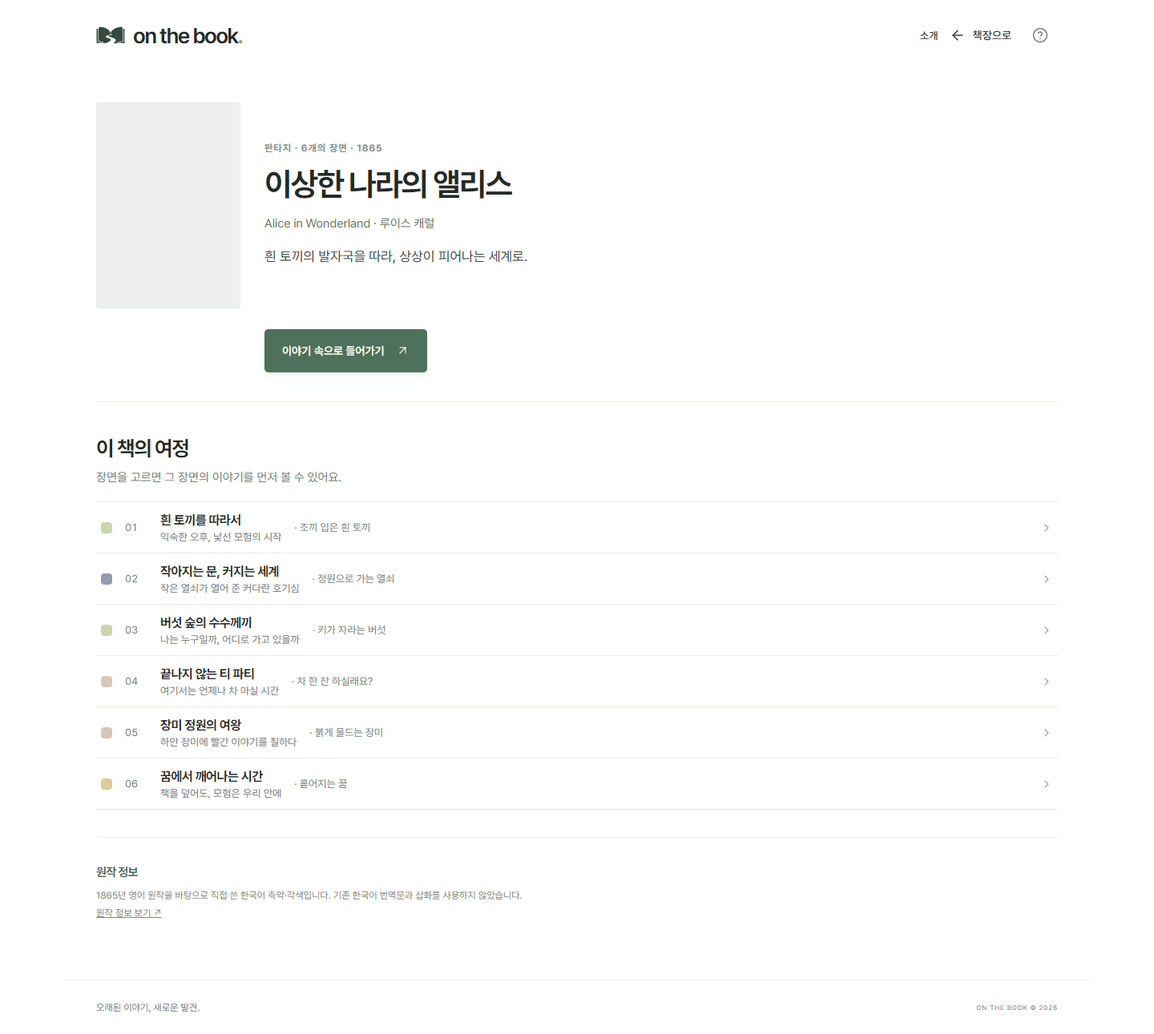
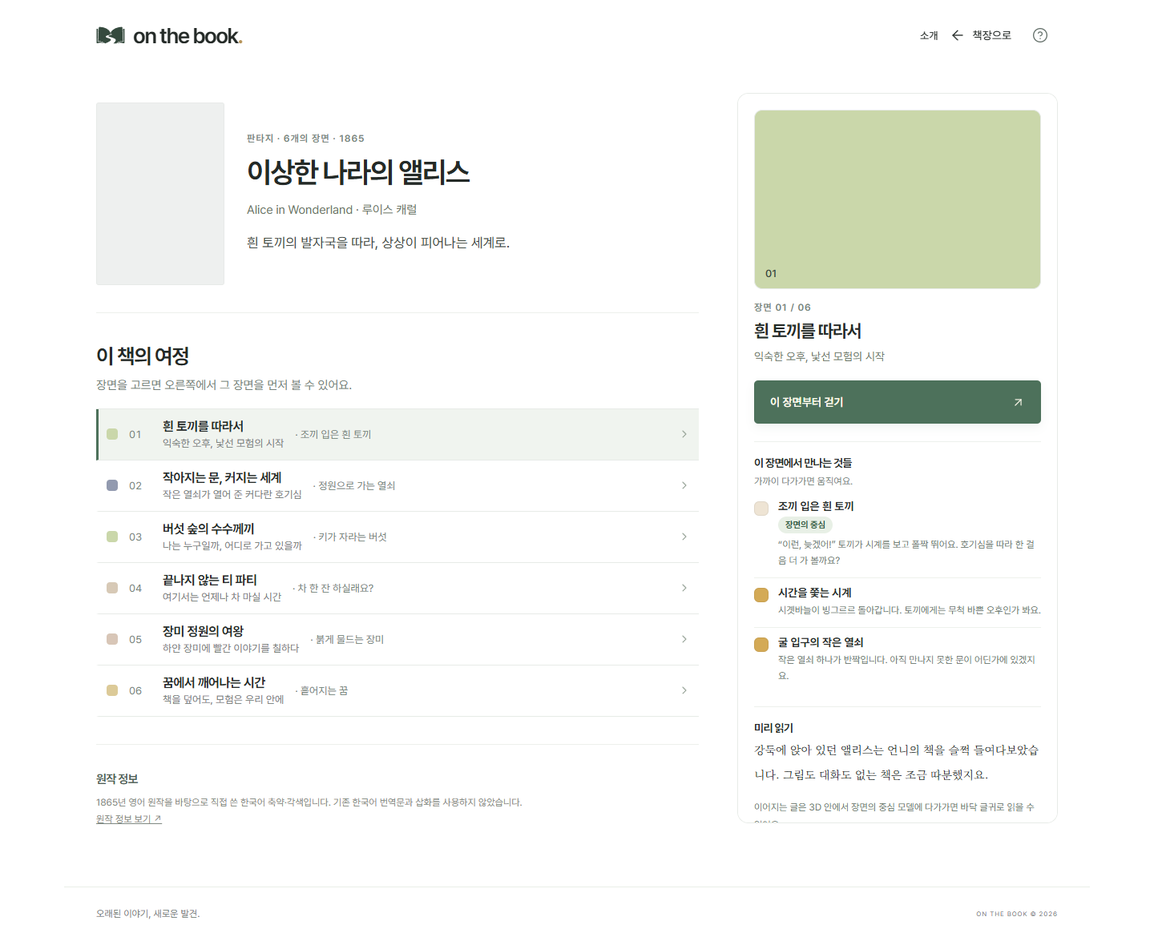
Document the two-column book detail
README, the studio guide and hint, and the migration spec describe the
scene panel, the phone sheet and the three reader addresses; the detail
spec names the panel ids the code uses. The preview capture takes a
server address and enters the world from the panel, and the four
screenshots show the new layout.

diff --git a/admin/main.js b/admin/main.js
@@ -396,7 +396,7 @@ function editChapter(id) {
   const c = book().chapters.find(c=>c.id===id) || chapter(),
     index = book().chapters.indexOf(c);
   const d = modal(
-    `<span class="eyebrow">CHAPTER ${index + 1}</span><h2>장면과 이야기</h2><form id="chapter-form">${field("챕터 제목", "title", c.title, "text", 'required maxlength="200"')}${field("짧은 소개", "subtitle", c.subtitle, "text", 'maxlength="250"')}${imageField("chapter-thumbnail", "장면 썸네일 (PNG)", "thumbnail", c.thumbnail,"사용자 화면의 장면 목록에 16:10 비율로 보여요(예: 1280×800). 없으면 빈 자리로 둡니다.")}${select("장면 분위기", "theme", themes, c.theme)}${field("공간 가로 크기", "width", c.width || 64, "number", 'min="40" max="120" required')}${field("공간 세로 크기", "depth", c.depth || 56, "number", 'min="40" max="100" required')}<p class="field-hint">이 공간이 챕터 순서대로 연결됩니다. 모델은 공간 안 어디든 배치할 수 있고, 이동 조건은 없습니다.</p><a href="${esc(clientUrl)}?book=${book().id}&chapter=${c.id}" target="_blank" rel="noopener">공개된 탐험 화면 보기 ↗</a><div class="field-section">바닥 안내와 독서 화면</div><p class="field-hint">바닥 이미지는 왼쪽 목록에서 월드에 배치하고, 선택해 위치와 방향을 수정합니다.</p><label class="checkbox-field"><input type="checkbox" name="floorEnabled" ${c.floorEnabled !== false ? "checked" : ""}> 모델 접근 시 글 섹션과 카메라 연출</label><label class="field">오른쪽에 보여 줄 글귀<textarea name="floorText" rows="4" maxlength="15000" placeholder="비우면 아래 이야기 본문 전체를 사용합니다.">${esc(c.floorText || "")}</textarea></label>${field("글귀 카메라 여백 배율", "floorZoom", c.floorZoom ?? 1.1, "number", 'min="1" max="1.8" step="0.1"')}${field("애니메이션·글 노출 접근 배율", "reactionMultiplier", c.reactionMultiplier ?? 2, "number", 'min="1" max="4" step="0.1"')}${field("페이지당 최대 글자 수", "floorPageSize", c.floorPageSize ?? 112, "number", 'min="40" max="400" step="1"')}<label class="checkbox-field"><input name="floorStagger" type="checkbox" ${c.floorStagger !== false ? "checked" : ""}> 챕터명과 본문 순차 등장</label><p class="field-hint">글귀는 화면 오른쪽의 반투명 창에, 캐릭터와 모델은 왼쪽에 표시됩니다. 긴 글은 여러 장으로 나뉩니다. 여백 배율이 클수록 카메라가 멀어지며, 화면 크기에 맞춰 글귀가 보이도록 조절됩니다.</p><label class="field">이야기 본문<textarea name="body" rows="9" maxlength="15000">${esc(c.body)}</textarea></label><div class="modal-actions"><button type="button" id="chapter-up" class="outline-button" ${index === 0 ? "disabled" : ""}>앞으로 옮기기</button><button type="button" id="chapter-down" class="outline-button" ${index === book().chapters.length - 1 ? "disabled" : ""}>뒤로 옮기기</button><button type="button" id="delete-chapter" class="text-button danger" ${book().chapters.length === 1 ? "disabled" : ""}>삭제</button><button class="primary-button">변경 적용</button></div></form>`,
+    `<span class="eyebrow">CHAPTER ${index + 1}</span><h2>장면과 이야기</h2><form id="chapter-form">${field("챕터 제목", "title", c.title, "text", 'required maxlength="200"')}${field("짧은 소개", "subtitle", c.subtitle, "text", 'maxlength="250"')}${imageField("chapter-thumbnail", "장면 썸네일 (PNG)", "thumbnail", c.thumbnail,"사용자 화면의 장면 목록과 작품 상세의 장면 패널에 16:10 비율로 보여요(예: 1280×800). 없으면 빈 자리로 둡니다.")}${select("장면 분위기", "theme", themes, c.theme)}${field("공간 가로 크기", "width", c.width || 64, "number", 'min="40" max="120" required')}${field("공간 세로 크기", "depth", c.depth || 56, "number", 'min="40" max="100" required')}<p class="field-hint">이 공간이 챕터 순서대로 연결됩니다. 모델은 공간 안 어디든 배치할 수 있고, 이동 조건은 없습니다.</p><a href="${esc(clientUrl)}?book=${book().id}&chapter=${c.id}" target="_blank" rel="noopener">공개된 탐험 화면 보기 ↗</a><div class="field-section">바닥 안내와 독서 화면</div><p class="field-hint">바닥 이미지는 왼쪽 목록에서 월드에 배치하고, 선택해 위치와 방향을 수정합니다.</p><label class="checkbox-field"><input type="checkbox" name="floorEnabled" ${c.floorEnabled !== false ? "checked" : ""}> 모델 접근 시 글 섹션과 카메라 연출</label><label class="field">오른쪽에 보여 줄 글귀<textarea name="floorText" rows="4" maxlength="15000" placeholder="비우면 아래 이야기 본문 전체를 사용합니다.">${esc(c.floorText || "")}</textarea></label>${field("글귀 카메라 여백 배율", "floorZoom", c.floorZoom ?? 1.1, "number", 'min="1" max="1.8" step="0.1"')}${field("애니메이션·글 노출 접근 배율", "reactionMultiplier", c.reactionMultiplier ?? 2, "number", 'min="1" max="4" step="0.1"')}${field("페이지당 최대 글자 수", "floorPageSize", c.floorPageSize ?? 112, "number", 'min="40" max="400" step="1"')}<label class="checkbox-field"><input name="floorStagger" type="checkbox" ${c.floorStagger !== false ? "checked" : ""}> 챕터명과 본문 순차 등장</label><p class="field-hint">글귀는 화면 오른쪽의 반투명 창에, 캐릭터와 모델은 왼쪽에 표시됩니다. 긴 글은 여러 장으로 나뉩니다. 여백 배율이 클수록 카메라가 멀어지며, 화면 크기에 맞춰 글귀가 보이도록 조절됩니다.</p><label class="field">이야기 본문<textarea name="body" rows="9" maxlength="15000">${esc(c.body)}</textarea></label><div class="modal-actions"><button type="button" id="chapter-up" class="outline-button" ${index === 0 ? "disabled" : ""}>앞으로 옮기기</button><button type="button" id="chapter-down" class="outline-button" ${index === book().chapters.length - 1 ? "disabled" : ""}>뒤로 옮기기</button><button type="button" id="delete-chapter" class="text-button danger" ${book().chapters.length === 1 ? "disabled" : ""}>삭제</button><button class="primary-button">변경 적용</button></div></form>`,
   );
   const apply = () => {
     const values = Object.fromEntries(new FormData(d.querySelector("form")));

diff --git a/docs/superpowers/specs/2026-09-28-detail-pages-design.md b/docs/superpowers/specs/2026-09-28-detail-pages-design.md
@@ -95,7 +95,7 @@ main.detail-page.store-content#main-content[data-view="book"]
     section.detail-hero           표지·분류·제목·저자·소개
     section.detail-section#detail-journey   이 책의 여정(장면 목록)
     section.detail-source         원작 정보
-  aside.scene-panel[aria-labelledby="scene-panel-title"]   오른쪽 열. sticky
+  aside.scene-panel[aria-labelledby="panel-scene-title"]   오른쪽 열. sticky
     (7절의 패널 내용)
   div.detail-cta                  850px 이하에서만 보이는 하단 고정 바
   p.reader-sr-only[role="status"]#scene-status   장면 선택 안내
@@ -132,10 +132,10 @@ main.detail-page.store-content#main-content[data-view="book"]
 
 순서와 내용
 1. 이미지 `.scene-image.image-placeholder[data-theme]`: 패널 폭 전체, **항상 16:10**(`aspect-ratio: 16 / 10`), 모서리 10px, 배경은 테마 칩 색, 왼쪽 아래 `.scene-number` "02". 썸네일(`chapter.thumbnail`)이 있으면 `.has-image` 를 더하고 `<img>`(`alt=""`, `object-fit: cover`)가 자리를 채우며 번호는 밝은 알약 모양으로 위에 남는다. 이름표는 썸네일이 있으면 `aria-label="{장면 제목} 장면 이미지"`, 없으면 `"장면 이미지 준비 중"`. 패널이 좁아(340~400px) 16:10 이미지가 그대로 들어가므로 예전의 가로 띠와 잘림 문제가 없다.
-2. `.eyebrow` "`장면 02 / 06`", `h2#scene-panel-title` 장면 제목, `p.detail-meta` 부제(비어 있으면 생략). 저장된 장면이면 제목 아래에 배지 "마지막에 머문 장면".
+2. `.eyebrow` "`장면 02 / 06`", `h2#panel-scene-title` 장면 제목, `p.detail-meta` 부제(비어 있으면 생략). 저장된 장면이면 제목 아래에 배지 "마지막에 머문 장면".
 3. CTA: `<button class="primary-button detail-enter" data-enter="alice" data-enter-chapter="alice-2">이 장면부터 걷기 ↗</button>`, 패널 폭 전체. 저장된 장면과 같아도 문구는 바꾸지 않는다. 어느 장면이든 들어가면 그 장면이 저장된 장면이 된다(기존 규칙).
-4. 이 장면에서 만나는 것들 `#detail-figures`: `h3` "이 장면에서 만나는 것들", 설명 "가까이 다가가면 움직여요.", `<ul class="figure-list">` 한 열. 배치는 대표 배치(`mainPlacementId`)가 먼저, 나머지는 원래 순서. 각 `li`: 색 칩 `.figure-chip`(모델 `color`, 없으면 `--accent`), `strong` 제목, `span.figure-story` 이야기(비어 있으면 생략), 대표 배치에만 배지 "장면의 중심". 배치가 없으면 이 묶음을 만들지 않는다.
-5. 미리 읽기 `#detail-preview`: `h3` "미리 읽기", `chapter.body` 를 `\n\n` 으로 나눈 첫 문단만 `.reading-text p`. 문단이 둘 이상이고 `chapter.floorEnabled !== false` 이면 `p.muted` "이어지는 글은 3D 안에서 장면의 중심 모델에 다가가면 바닥 글귀로 읽을 수 있어요.". 본문이 비어 있으면 이 묶음을 만들지 않는다. `floorText` 는 쓰지 않는다.
+4. 이 장면에서 만나는 것들 `#panel-figures`: `h3` "이 장면에서 만나는 것들", 설명 "가까이 다가가면 움직여요.", `<ul class="figure-list">` 한 열. 배치는 대표 배치(`mainPlacementId`)가 먼저, 나머지는 원래 순서. 각 `li`: 색 칩 `.figure-chip`(모델 `color`, 없으면 `--accent`), `strong` 제목, `span.figure-story` 이야기(비어 있으면 생략), 대표 배치에만 배지 "장면의 중심". 배치가 없으면 이 묶음을 만들지 않는다.
+5. 미리 읽기 `#panel-preview`: `h3` "미리 읽기", `chapter.body` 를 `\n\n` 으로 나눈 첫 문단만 `.reading-text p`. 문단이 둘 이상이고 `chapter.floorEnabled !== false` 이면 `p.muted` "이어지는 글은 3D 안에서 장면의 중심 모델에 다가가면 바닥 글귀로 읽을 수 있어요.". 본문이 비어 있으면 이 묶음을 만들지 않는다. `floorText` 는 쓰지 않는다.
 6. 이어지는 장면 `nav.neighbor-nav[aria-label="이어지는 장면"]`: 왼쪽 "← 01 흰 토끼를 따라서", 오른쪽 "03 버섯 숲의 수수께끼 →". 링크는 `a.neighbor-link[href={detailUrl scene}][data-scene]` 이고 여정 행과 같은 규칙으로 선택을 바꾼다. 첫 장면은 이전을, 마지막 장면은 다음을 만들지 않는다. "작품 전체 보기"와 브레드크럼은 없다. 작품이 바로 왼쪽에 있기 때문이다.
 
 패널의 제목 위계: 페이지의 `h1` 은 책 제목 하나이고 패널 제목은 `h2`, 패널 안 묶음은 `h3` 이다. 여정과 원작 정보의 `h2` 와 나란하다.
@@ -220,7 +220,7 @@ admin/
 
 - 전환 후 초점은 `h1#detail-title`. 장면 선택 뒤 초점은 누른 요소에 남고 `#scene-status`(`role="status"`, 시각적으로 숨김)가 선택을 알린다.
 - 선택된 여정 행은 `aria-current="true"`. 여정 목록은 `ol`, 행 글자는 한 링크라 스크린 리더가 한 덩어리로 읽는다. 칩과 아이콘은 `aria-hidden`.
-- 패널은 `aside[aria-labelledby="scene-panel-title"]`, 이어지는 장면은 `nav[aria-label]`. 이미지 자리는 `role="img"` 와 `aria-label`.
+- 패널은 `aside[aria-labelledby="panel-scene-title"]`, 이어지는 장면은 `nav[aria-label]`. 이미지 자리는 `role="img"` 와 `aria-label`.
 - 장면 시트는 `dialog.showModal()` 이라 초점이 안에 갇히고 Esc 로 닫힌다. 닫으면 초점이 누른 행으로 돌아간다.
 - 하단 바는 `env(safe-area-inset-bottom)` 을 더하고, 페이지 끝에 바 높이만큼 여백을 두어 원작 정보가 가려지지 않게 한다.
 - 새 애니메이션은 없다. 등장 순서는 `transitions.js` 가 `prefers-reduced-motion` 을 처리한다. 시트가 올라오는 움직임도 `prefers-reduced-motion: reduce` 에서는 즉시 나타난다.
@@ -233,21 +233,21 @@ admin/
 
 - `detailUrl`(기존 검사 유지).
 - `bookDetail`: 저장 없음이면 여정 1행이 `aria-current="true"` 이고 패널 제목이 1장면, CTA `data-enter-chapter="alice-1"`. 저장(`alice-2`)이면 2행이 선택·배지, 패널이 2장면, 패널 제목 아래 배지. `chapter` 인자로 3장면을 넘기면 3행 선택·패널 3장면(주소로 연 경우). 히어로에 버튼이 없다(`data-enter` 는 패널과 하단 바에만, 합계 2개). 여정 행 `href` 가 `detailUrl` 과 같다. 표지가 있으면 `.detail-cover img` 하나, 없으면 "표지 이미지 준비 중". 제목에 `<` 가 든 가짜 책으로 이스케이프 확인.
-- `scenePanel`: 16:10 이미지 자리와 번호, 썸네일이 있으면 `has-image`·`<img>`·`aria-label="{제목} 장면 이미지"`(`"`·`<` 가 든 제목의 이스케이프 포함), 없으면 "장면 이미지 준비 중". `h2#scene-panel-title`. CTA 하나. 대표 배치가 먼저이고 "장면의 중심" 배지가 하나, 배치 없으면 묶음 없음. 첫 문단만, `floorEnabled: false` 면 안내 없음, 본문 없으면 묶음 없음. 첫 장면은 이전이, 마지막 장면은 다음이 없다. 저장된 장면이면 배지. 없는 챕터는 예외.
+- `scenePanel`: 16:10 이미지 자리와 번호, 썸네일이 있으면 `has-image`·`<img>`·`aria-label="{제목} 장면 이미지"`(`"`·`<` 가 든 제목의 이스케이프 포함), 없으면 "장면 이미지 준비 중". `h2#panel-scene-title`. CTA 하나. 대표 배치가 먼저이고 "장면의 중심" 배지가 하나, 배치 없으면 묶음 없음. 첫 문단만, `floorEnabled: false` 면 안내 없음, 본문 없으면 묶음 없음. 첫 장면은 이전이, 마지막 장면은 다음이 없다. 저장된 장면이면 배지. 없는 챕터는 예외.
 - `sceneBar`: `02 · 작아지는 문, 커지는 세계` 와 `data-enter-chapter="alice-2"`.
 - 모든 링크가 `preview: true` 에서 `&preview=draft` 를 유지한다.
 
 ### 14.2 브라우저 검사 `tests/catalog.mjs`(4336 포트)
 
-1. 검색·분류·정렬 단계(기존) 뒤: `[data-book="alice"]` 클릭 → `.detail-page[data-view="book"]`, `#detail-title` "이상한 나라의 앨리스", 초점 `#detail-title`, 주소 `?book=alice`, `.journey-row` 6개 중 `[aria-current="true"]` 가 `alice-1`, `.scene-panel #scene-panel-title` "흰 토끼를 따라서", 상세 안 `img` 0개(시드). 여정 2행 클릭 → 커튼 없음(`.reader-curtain` 0), 주소 `?book=alice&scene=alice-2`, `history.length` 변화 없음(클릭 전후 `page.evaluate(() => history.length)` 비교), 패널 제목 "작아지는 문, 커지는 세계", `aria-current` 가 2행으로, `#scene-status` 에 "02". 패널 "03 …" 다음 링크 클릭 → 3장면, 주소 `scene=alice-3`. 여정 1행 클릭 → 1장면, 주소 `scene=alice-1`. 패널 CTA 클릭 → `#world canvas`, 주소 `book=alice&chapter=alice-1`. 이어서 기존 "작품 소개" 모달 검사와 3D 안 이동·다음 챕터(02) 검사가 그대로 이어진다.
+1. 검색·분류·정렬 단계(기존) 뒤: `[data-book="alice"]` 클릭 → `.detail-page[data-view="book"]`, `#detail-title` "이상한 나라의 앨리스", 초점 `#detail-title`, 주소 `?book=alice`, `.journey-row` 6개 중 `[aria-current="true"]` 가 `alice-1`, `.scene-panel #panel-scene-title` "흰 토끼를 따라서", 상세 안 `img` 0개(시드). 여정 2행 클릭 → 커튼 없음(`.reader-curtain` 0), 주소 `?book=alice&scene=alice-2`, `history.length` 변화 없음(클릭 전후 `page.evaluate(() => history.length)` 비교), 패널 제목 "작아지는 문, 커지는 세계", `aria-current` 가 2행으로, `#scene-status` 에 "02". 패널 "03 …" 다음 링크 클릭 → 3장면, 주소 `scene=alice-3`. 여정 1행 클릭 → 1장면, 주소 `scene=alice-1`. 패널 CTA 클릭 → `#world canvas`, 주소 `book=alice&chapter=alice-1`. 이어서 기존 "작품 소개" 모달 검사와 3D 안 이동·다음 챕터(02) 검사가 그대로 이어진다.
 2. 3D 안 이동·챕터 이동(기존). "책장으로" → `.catalog-card` 2개(기존).
 3. "읽던 작품 이어 보기" → `[data-book="alice"]` 클릭 → 저장된 2장면 행이 선택·배지, 패널 제목 "작아지는 문, 커지는 세계"와 배지 "마지막에 머문 장면", 주소는 `?book=alice`(기본 선택이라 `scene` 없음). CTA 클릭 → `#map-button` 에 "02". `reload` 뒤에도 "02".
 4. `goBack()` → 작품 상세(선택 유지, 주소에 `scene`), 한 번 더 → `.library-page`, `goForward()` 두 번 → 월드.
-5. 홈에서 `[data-scene-chapter="alice-3"]` 클릭 → `.detail-page[data-view="book"]`, 주소 `?book=alice&scene=alice-3`, 3행 선택, 패널 제목 "버섯 숲의 수수께끼", `#detail-preview .reading-text p` 한 문단, `.figure-list li` 3개, 첫 항목 "장면의 중심", 이전 "02", 다음 "04". CTA → 월드 `chapter=alice-3`.
+5. 홈에서 `[data-scene-chapter="alice-3"]` 클릭 → `.detail-page[data-view="book"]`, 주소 `?book=alice&scene=alice-3`, 3행 선택, 패널 제목 "버섯 숲의 수수께끼", `#panel-preview .reading-text p` 한 문단, `.figure-list li` 3개, 첫 항목 "장면의 중심", 이전 "02", 다음 "04". CTA → 월드 `chapter=alice-3`.
 6. 홈에서 `.feature-card.is-active`(앨리스) 클릭 → 작품 상세. "책장으로" → `.feature-card.is-active` 에 초점, 5.6초 뒤에도 유지(기존).
 7. 주소 직접 열기(기존 7단계에 더해): `?book=alice&scene=alice-2` 는 2행 선택과 패널 2장면, 문서 제목은 책 제목. 나머지(`?book=nope`, `?scene=alice-2`, `?book=alice&chapter=nope`, `?book=alice&scene=nope&preview=draft`, 초안 미리보기의 빈 책장)는 기존 단정 유지.
 8. 홈 화면 관리 묶음("Studio covers…" 단계, 가로챈 응답): `[data-book="alice"]` → `.detail-cover img` 1개; 썸네일이 있는 장면 카드 → 패널 `.scene-panel .scene-image.has-image img` 1개, 그 자리의 폭/높이 비 1.6(±0.02).
-9. 휴대폰 반복(320·390·768): 카드 탭 → 상세, `aside.scene-panel` 은 보이지 않고 `.detail-cta` 가 화면 아래에 있으며 폭 전체(`left 0`, `right = innerWidth`). 여정 2행 탭 → `dialog.scene-sheet[open]` 안에 `#scene-panel-title` "작아지는 문, 커지는 세계", 하단 바 문구 "02 ·". 시트 안 CTA 탭 → `#world canvas`, 주소 `chapter=alice-2`. 768px 도 한 열이므로 같은 흐름이다.
+9. 휴대폰 반복(320·390·768): 카드 탭 → 상세, `aside.scene-panel` 은 보이지 않고 `.detail-cta` 가 화면 아래에 있으며 폭 전체(`left 0`, `right = innerWidth`). 여정 2행 탭 → `dialog.scene-sheet[open]` 안에 `#panel-scene-title` "작아지는 문, 커지는 세계", 하단 바 문구 "02 ·". 시트 안 CTA 탭 → `#world canvas`, 주소 `chapter=alice-2`. 768px 도 한 열이므로 같은 흐름이다.
 
 ### 14.3 `tests/mobile-entry.mjs`(4321 포트)
 
@@ -255,7 +255,7 @@ admin/
 
 ### 14.4 `tests/home-admin.mjs`, `tests/capture.mjs`
 
-`home-admin.mjs` 는 홈 카드 선택자(`[data-book]`)만 쓰므로 그대로 통과해야 한다. `capture.mjs` 는 `[data-book="alice"]` 클릭 뒤 `.detail-page` 를 `docs/preview/detail.png` 로 찍고(마우스는 `(0, 0)` 으로 옮긴 뒤), 패널 CTA `.scene-panel .primary-button` 을 눌러 `explore.png` 를 찍는다.
+`home-admin.mjs` 는 홈 카드 선택자(`[data-book]`)만 쓰므로 그대로 통과해야 한다. `capture.mjs` 는 `[data-book="alice"]` 클릭 뒤 `.detail-page` 를 `docs/preview/detail.png` 로 찍고(마우스는 `(0, 0)` 으로 옮긴 뒤), 패널 CTA `.scene-panel .detail-enter` 을 눌러 `explore.png` 를 찍는다.
 
 ### 14.5 회귀
 

diff --git a/README.md b/README.md
@@ -26,12 +26,12 @@ npm start
 
 ## 현재 경험과 관리 기능
 
-- 첫 화면은 상단 검색, 발견·전체 도서·이어 읽기 메뉴, 추천 배너, 도서 책장과 장면별 탐색으로 구성됩니다. [리디 만화](https://ridibooks.com/comics/ebook)의 검색·카테고리·여러 도서 코너와 [밀리의서재](https://www.millie.co.kr/)의 탐색 메뉴를 참고했습니다. 제목·작가 검색, 분류, 제목·출간연도 정렬을 지원하며 도서를 누르면 작품 상세 페이지가 열리고, 그곳의 '이야기 속으로 들어가기' 버튼으로 3D 공간에 들어갑니다. 읽던 작품은 마지막에 머문 장면에서 이어 읽을 수 있습니다. 회원가입·로그인·알림 메뉴는 없습니다.
+- 첫 화면은 상단 검색, 발견·전체 도서·이어 읽기 메뉴, 추천 배너, 도서 책장과 장면별 탐색으로 구성됩니다. [리디 만화](https://ridibooks.com/comics/ebook)의 검색·카테고리·여러 도서 코너와 [밀리의서재](https://www.millie.co.kr/)의 탐색 메뉴를 참고했습니다. 제목·작가 검색, 분류, 제목·출간연도 정렬을 지원하며 도서를 누르면 작품 상세 페이지가 열리고, 오른쪽 장면 패널의 '이 장면부터 걷기' 버튼으로 3D 공간에 들어갑니다. 읽던 작품은 마지막에 머문 장면에서 이어 읽을 수 있습니다. 회원가입·로그인·알림 메뉴는 없습니다.
 - 기존 등록 도서만 표시하며 데모용 작품을 추가하지 않습니다. 공개 도서가 늘어나면 목록과 도서 수가 자동으로 확장됩니다. 발견 화면의 빈 도서 자리는 ‘새로운 이야기 준비 중’으로 표시되고 선택할 수 없습니다. 분류는 관리자 도서 정보에서 정하며, 분류가 없는 예전 데이터는 앨리스 ‘판타지’, 오즈 ‘모험’, 그 밖의 책 ‘문학’으로 표시됩니다.
-- 관리자가 올린 표지는 책장과 작품 상세·작품 소개 창에, 장면 썸네일은 장면 목록과 장면 상세에 표시됩니다. 등록하지 않은 칸은 크기와 자리만 확보한 빈 칸으로 둡니다.
+- 관리자가 올린 표지는 책장과 작품 상세·작품 소개 창에, 장면 썸네일은 장면 목록과 작품 상세의 장면 패널에 표시됩니다. 등록하지 않은 칸은 크기와 자리만 확보한 빈 칸으로 둡니다.
 - 추천 배너(히어로)는 관리자 **홈 화면** 탭의 슬라이드 순서를 따릅니다. 사진이 있는 슬라이드는 사진이 카드 전체를 채우고 글이 그 위에 놓이며, 사진이 없으면 기본 그림으로 표시합니다. 슬라이드가 없거나 연결된 책이 모두 비공개이면 도서 보관함 순서의 앞 두 권을 보여 줍니다. 슬라이드를 누르면 연결된 책의 작품 상세를 엽니다.
-- 장면 목록은 가로로 넘겨 볼 수 있고, 장면을 누르면 첫 문단과 그 장면의 모델을 미리 보여 주는 장면 상세 페이지가 열립니다. '이 장면부터 걷기' 버튼으로 그 장면의 3D 공간에 들어갑니다. 이전·다음 버튼, 터치 스크롤, 목록에 초점을 둔 상태에서 방향키·Home·End를 지원합니다.
-- 작품 상세 페이지에서 원작 정보와 장면 목록을 확인하고, 3D 공간 안에서는 **작품 소개** 창으로 같은 정보를 봅니다. 주소 `?book=<책>`은 작품 상세, `?book=<책>&scene=<장면>`은 장면 상세, `?book=<책>&chapter=<장면>`은 3D 공간입니다. **책장으로** 돌아오면 검색 조건과 위치가 유지되고 **이어 읽기**에서는 이 브라우저에서 방문한 작품을 볼 수 있습니다. 첫 진입 시 안내창은 자동으로 열리지 않으며 이용 방법 버튼으로 볼 수 있습니다.
+- 장면 목록은 가로로 넘겨 볼 수 있고, 장면을 누르면 그 장면이 선택된 작품 상세가 열리고, 장면 패널이 첫 문단과 그 장면의 모델을 미리 보여 줍니다. '이 장면부터 걷기' 버튼으로 그 장면의 3D 공간에 들어갑니다. 이전·다음 버튼, 터치 스크롤, 목록에 초점을 둔 상태에서 방향키·Home·End를 지원합니다.
+- 작품 상세 페이지에서 원작 정보와 장면 목록을 확인하고 오른쪽 패널(휴대폰에서는 아래에서 올라오는 시트)에서 장면을 고른 뒤 '이 장면부터 걷기'로 3D 공간에 들어가며, 3D 공간 안에서는 **작품 소개** 창으로 같은 정보를 봅니다. 주소 `?book=<책>`은 작품 상세, `?book=<책>&scene=<장면>`은 그 장면이 선택된 작품 상세, `?book=<책>&chapter=<장면>`은 3D 공간입니다. **책장으로** 돌아오면 검색 조건과 위치가 유지되고 **이어 읽기**에서는 이 브라우저에서 방문한 작품을 볼 수 있습니다. 첫 진입 시 안내창은 자동으로 열리지 않으며 이용 방법 버튼으로 볼 수 있습니다.
 - 트레일러는 아래쪽 **온더북 미리보기**에서 직접 열어 재생합니다. 미리보기 이미지는 표시하지 않으며 영상을 닫으면 재생을 멈춥니다.
 - 영상 원본은 `public/trailer.mp4`, 실제 웹 재생본은 `public/trailer-web.mp4`, 재생 전 이미지는 `public/trailer-poster.jpg`입니다. 원본을 교체하면 웹 재생본과 이미지도 함께 갱신해야 합니다.
 - 게임 요소 없이 넓은 공간을 자유롭게 이동합니다. 모델에 접근하면 애니메이션이 반복되고, 범위를 벗어나면 기본 자세로 돌아갑니다. 다시 접근하면 처음부터 재생됩니다.
@@ -44,7 +44,7 @@ npm start
 
 ## 확인 순서
 
-1. 사용자 화면에서 표지를 눌러 작품 상세를 열고 '이야기 속으로 들어가기'를 누른 뒤 땅을 누르거나 방향키로 이동합니다. 휴대폰에서는 방향 버튼도 사용할 수 있습니다.
+1. 사용자 화면에서 표지를 눌러 작품 상세를 열고 '이 장면부터 걷기'를 누른 뒤 땅을 누르거나 방향키로 이동합니다. 휴대폰에서는 방향 버튼도 사용할 수 있습니다.
 2. 모델 가까이에서 움직임을 보고, 멀어졌다가 다시 접근합니다. 오른쪽으로 계속 걸으면 다음 챕터로 이어집니다. 지도에서 원하는 챕터로 바로 이동할 수도 있습니다.
 3. 관리자 **챕터와 본문**에서 공간 크기를 조절합니다. **모델 설정**에서 위치와 접근 거리, 애니메이션을 조절하고 미리 봅니다.
 4. **임시 저장** 후 **사용자 화면에 공개**하고 사용자 화면을 새로고침합니다.

diff --git a/docs/ADMIN-GUIDE.md b/docs/ADMIN-GUIDE.md
@@ -24,7 +24,7 @@
 | 이미지 | 올리는 곳 | 권장 비율·크기 |
 | --- | --- | --- |
 | 표지 | 도서 정보 | 세로 2:2.85 (예: 800×1140) |
-| 장면 썸네일 | 챕터 편집(‘장면과 이야기’) | 16:10 (예: 1280×800). 장면 상세 페이지에서도 썸네일은 16:10 비율 그대로 보입니다. |
+| 장면 썸네일 | 챕터 편집(‘장면과 이야기’) | 16:10 (예: 1280×800). 작품 상세의 장면 패널에서도 썸네일은 16:10 비율 그대로 보입니다. |
 | 히어로 사진 | 홈 화면 | 가로 사진 (예: 2400×1000) |
 
 이미지를 지우면 빈 칸(표지·썸네일)이나 기본 그림(히어로)으로 돌아갑니다. 바꾼 내용은 임시 저장과 공개를 거쳐 사용자 화면에 반영됩니다.
